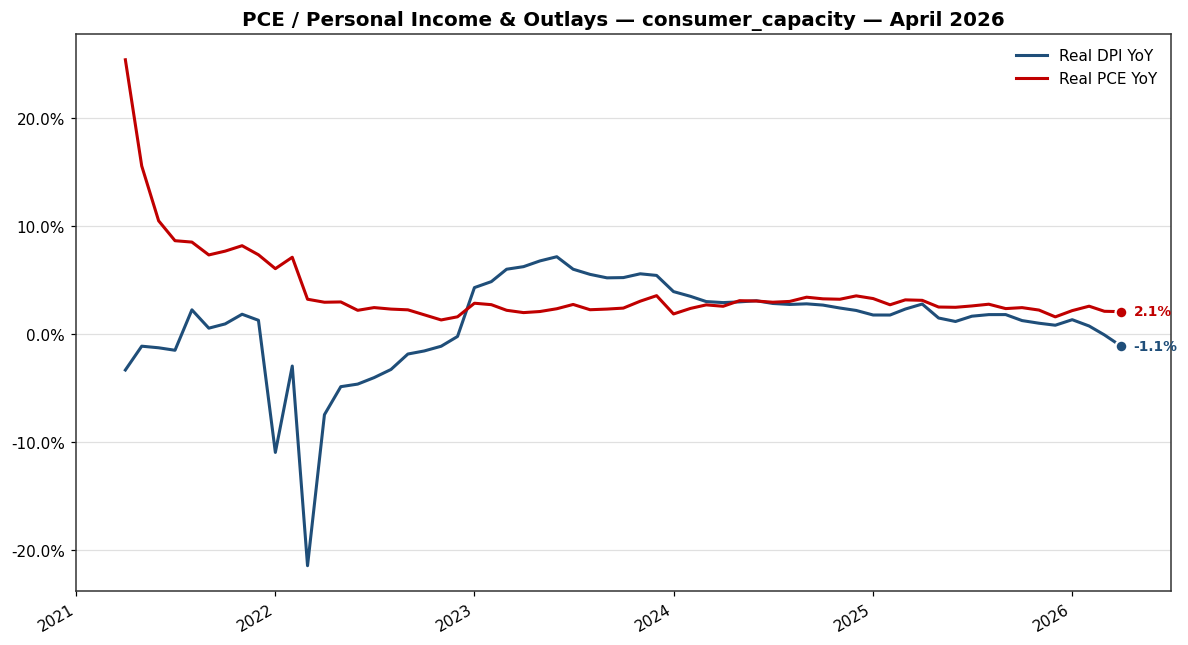
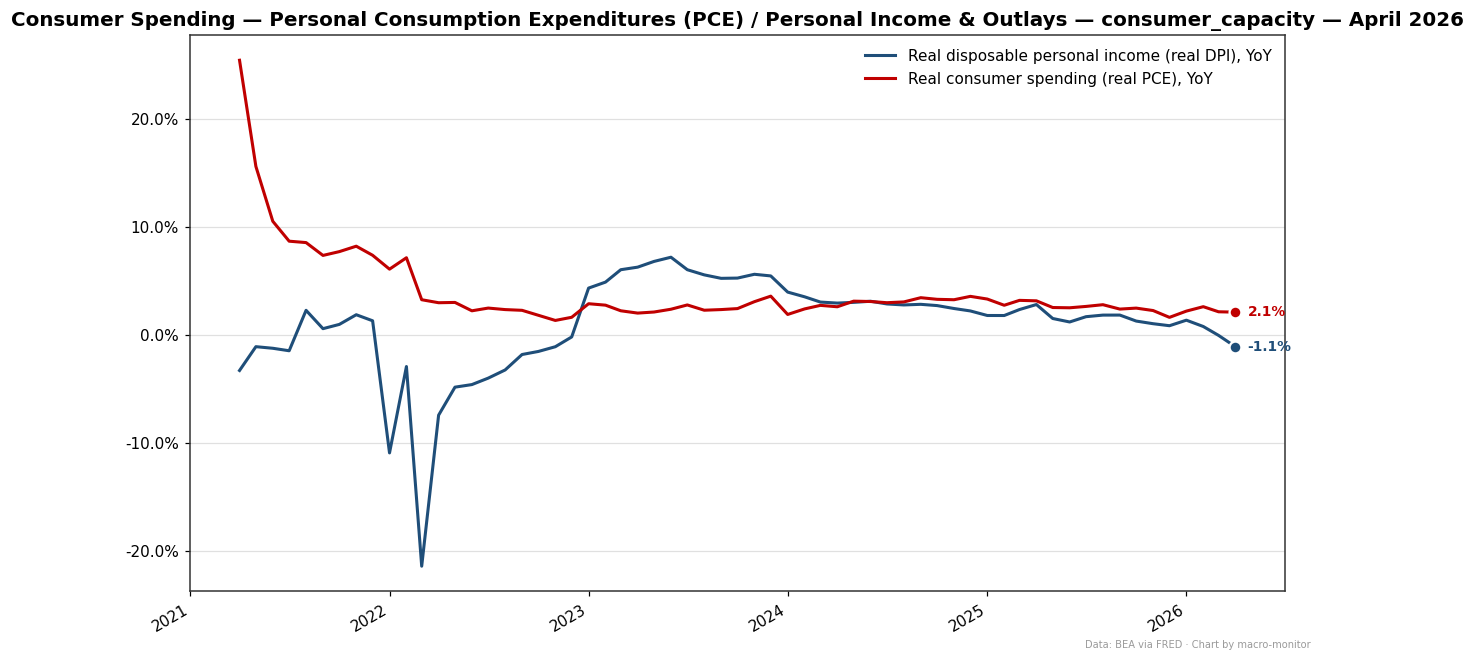
Populate consumer-spending card on the US current-state dashboard
The PCE family's display name was changed to lead with "Consumer Spending"
(commits 0772098/31d0ba2), but its outputs/latest artifact was still under the
OLD slug (pce___personal_income_and_outlays). The dashboard computes the card
slug from the *current* display name, so it found no match and rendered a
"no data yet" card — consumer spending, JP's top macro metric, was missing.

Regenerated the family artifact under the new slug via `post-release --family
pce` (dry-run, no Slack post): writes outputs/latest + the history charts
(main consumer-spending 5y, 25y long-history, consumer-capacity) and refreshes
the dashboard. Card now shows real + nominal PCE YoY (real +2.10%, Apr 2026,
not stale) with the consumer-spending history chart. Removed the orphaned
old-slug artifact.

diff --git a/outputs/dashboard/index.html b/outputs/dashboard/index.html
@@ -67,7 +67,7 @@
 <body>
 
 <h1>macro-monitor — US current state</h1>
-<p class="subtitle">Latest values per Tier A family. Generated Sat Jun 13 2026 09:39 ET.<br>
+<p class="subtitle">Latest values per Tier A family. Generated Sat Jun 13 2026 17:05 ET.<br>
 Each figure is tagged with its basis — <b>y/y</b> (year-over-year) · <b>m/m</b> (month-over-month) ·
 <b>m/m ann.</b> (annualized monthly) · <b>q/q ann.</b> (annualized quarterly) ·
 <b>m/m chg</b> (level change, e.g. payrolls in thousands) · <b>level</b> (the raw level).</p>
@@ -79,7 +79,7 @@ Each figure is tagged with its basis — <b>y/y</b> (year-over-year) · <b>m/m</
   </div>
   <div class="stat">
     <div class="label">Families with data</div>
-    <div class="value">17</div>
+    <div class="value">18</div>
   </div>
   <div class="stat">
     <div class="label">Stale (FRED behind expected)</div>
@@ -91,7 +91,7 @@ Each figure is tagged with its basis — <b>y/y</b> (year-over-year) · <b>m/m</
 
 <div class="grid">
 <div class='card' id='fam-cpi'><h2>CPI</h2><div class='period'>April 2026</div><div class='headline'><span class='headline-label'>Headline</span><span class='headline-value'>+7.96%<span class='basis'>m/m ann.</span><span class='also'>+3.78% y/y · +0.64% m/m</span></span></div><div class='headline'><span class='headline-label'>Core</span><span class='headline-value'>+4.61%<span class='basis'>m/m ann.</span><span class='also'>+2.74% y/y · +0.38% m/m</span></span></div><div class='headline'><span class='headline-label'>↳ Medical care services</span><span class='headline-value'>+3.21%<span class='basis'>y/y</span></span></div><div class='headline'><span class='headline-label'>↳ Medical care commodities (drugs/equipment)</span><span class='headline-value'>-0.52%<span class='basis'>y/y</span></span></div><div class='headline'><span class='headline-label'>↳ Hospital &amp; related services</span><span class='headline-value'>+5.55%<span class='basis'>y/y</span></span></div><div class='headline'><span class='headline-label'>↳ Professional services (physicians/dental)</span><span class='headline-value'>+3.97%<span class='basis'>y/y</span></span></div><img class='chart-thumb' src='../charts/cpi_5y_2026-04.png' alt='main chart'><div class='links'><a href='../archive/cpi/2026-04.html'>Release report</a> <a href='https://www.bls.gov/news.release/pdf/cpi.pdf' target='_blank'>Official PDF ↗</a></div></div>
-<div class='card nodata' id='fam-consumer_spending_—_personal_consumption_expenditures_(pce)___personal_income_and_outlays'><h2>Consumer Spending — Personal Consumption Expenditures (PCE) / Personal Income &amp; Outlays</h2><div class='period'>no data yet — first release post will populate</div></div>
+<div class='card' id='fam-consumer_spending_—_personal_consumption_expenditures_(pce)___personal_income_and_outlays'><h2>Consumer Spending — Personal Consumption Expenditures (PCE) / Personal Income &amp; Outlays</h2><div class='period'>April 2026</div><div class='headline'><span class='headline-label'>Real consumer spending — Real Personal Consumption Expenditures (real PCE)</span><span class='headline-value'>+2.10%<span class='basis'>y/y</span><span class='also'>+0.11% m/m</span></span></div><div class='headline'><span class='headline-label'>Nominal consumer spending — Personal Consumption Expenditures (nominal PCE)</span><span class='headline-value'>+5.94%<span class='basis'>y/y</span><span class='also'>+0.51% m/m</span></span></div><div class='headline'><span class='headline-label'>Headline PCE price index — Personal Consumption Expenditures inflation (PCEPI)</span><span class='headline-value'>+4.90%<span class='basis'>m/m ann.</span><span class='also'>+3.77% y/y · +0.40% m/m</span></span></div><div class='headline'><span class='headline-label'>Core PCE price index — ex food &amp; energy (PCEPILFE)</span><span class='headline-value'>+2.91%<span class='basis'>m/m ann.</span><span class='also'>+3.29% y/y · +0.24% m/m</span></span></div><img class='chart-thumb' src='../charts/pce_consumer_spending_2026-04.png' alt='main chart'><div class='links'><a href='../archive/consumer_spending_—_personal_consumption_expenditures_(pce)___personal_income_and_outlays/2026-04.html'>Release report</a></div></div>
 <div class='card' id='fam-employment_cost_index'><h2>Employment Cost Index</h2><div class='period'>Q1 2026</div><div class='headline'><span class='headline-label'>Total compensation (All Civilian)</span><span class='headline-value'>+3.43%<span class='basis'>y/y</span><span class='also'>+3.66% q/q ann.</span></span></div><img class='chart-thumb' src='../charts/eci_10y_2026-Q1.png' alt='main chart'><div class='links'><a href='../archive/employment_cost_index/2026-Q1.html'>Release report</a> <a href='https://www.bls.gov/news.release/pdf/eci.pdf' target='_blank'>Official PDF ↗</a></div></div>
 <div class='card' id='fam-employment_situation'><h2>Employment Situation</h2><div class='period'>May 2026</div><div class='headline'><span class='headline-label'>Nonfarm payrolls</span><span class='headline-value'>+172.0<span class='basis'>m/m chg</span><span class='also'>+0.32% y/y</span></span></div><div class='headline'><span class='headline-label'>Unemployment rate</span><span class='headline-value'>4.30<span class='basis'>level</span></span></div><div class='headline'><span class='headline-label'>↳ Ambulatory health care services</span><span class='headline-value'>+2.90%<span class='basis'>y/y</span></span></div><div class='headline'><span class='headline-label'>↳ Hospitals</span><span class='headline-value'>+2.14%<span class='basis'>y/y</span></span></div><div class='headline'><span class='headline-label'>↳ Nursing &amp; residential care</span><span class='headline-value'>+2.27%<span class='basis'>y/y</span></span></div><img class='chart-thumb' src='../charts/payrolls_5y_2026-05.png' alt='main chart'><div class='links'><a href='../archive/employment_situation/2026-05.html'>Release report</a> <a href='https://www.bls.gov/news.release/pdf/empsit.pdf' target='_blank'>Official PDF ↗</a></div></div>
 <div class='card' id='fam-gdp'><h2>GDP</h2><div class='period'>Q1 2026</div><div class='headline'><span class='headline-label'>Real GDP</span><span class='headline-value'>1.60<span class='basis'>level</span></span></div><div class='headline'><span class='headline-label'>↳ PCE Health Services</span><span class='headline-value'>+6.90%<span class='basis'>y/y</span></span></div><img class='chart-thumb' src='../charts/gdp_5y_2026-Q1.png' alt='main chart'><div class='links'><a href='../archive/gdp/2026-Q1.html'>Release report</a></div></div>

diff --git a/outputs/archive/consumer_spending_—_personal_consumption_expenditures_(pce)___personal_income_and_outlays/2026-04.html b/outputs/archive/consumer_spending_—_personal_consumption_expenditures_(pce)___personal_income_and_outlays/2026-04.html
@@ -1,0 +1,68 @@
+<!DOCTYPE html>
+<html lang="en">
+<head>
+<meta charset="UTF-8">
+<title>Consumer Spending — Personal Consumption Expenditures (PCE) / Personal Income &amp; Outlays — April 2026</title>
+<style>
+  body { font-family: -apple-system, BlinkMacSystemFont, "Segoe UI", Helvetica, Arial, sans-serif;
+          max-width: 900px; margin: 2em auto; padding: 0 1em; color: #222; }
+  h1 { font-size: 1.8em; margin-bottom: 0.2em; }
+  h2 { font-size: 1.2em; margin-top: 1.6em; border-bottom: 1px solid #ddd; padding-bottom: 0.2em; }
+  .period-label { color: #555; font-weight: normal; }
+  .freshness { background: #f6f8fa; border-left: 3px solid #1F4E79;
+                padding: 0.5em 1em; margin: 1em 0; font-size: 0.9em; color: #444; }
+  .stale { border-left-color: #C00000; }
+  table { width: 100%; border-collapse: collapse; margin: 0.6em 0; }
+  th, td { text-align: left; padding: 0.4em 0.6em; border-bottom: 1px solid #eee; }
+  th { background: #fafafa; }
+  td.num { text-align: right; font-variant-numeric: tabular-nums; }
+  .chart { margin: 1em 0; }
+  .chart img { max-width: 100%; height: auto; border: 1px solid #ddd; border-radius: 4px; }
+  .agency-link { display: inline-block; margin-top: 0.6em; padding: 0.4em 0.8em;
+                  background: #1F4E79; color: white; text-decoration: none; border-radius: 4px; }
+  .agency-link:hover { background: #163955; }
+  .footer { font-size: 0.8em; color: #666; margin-top: 2em; padding-top: 1em; border-top: 1px solid #eee; }
+  .tag { display: inline-block; background: #E8F0E0; color: #2D5016; font-size: 0.7em;
+          padding: 0.1em 0.4em; border-radius: 3px; margin-left: 0.4em; }
+</style>
+</head>
+<body>
+
+<h1>Consumer Spending — Personal Consumption Expenditures (PCE) / Personal Income &amp; Outlays <span class="period-label">— April 2026</span></h1>
+
+<div class="freshness">
+  <strong>Source:</strong> fred ·
+  <strong>Fetched:</strong> 2026-06-13T21:05:48.423171+00:00 ·
+  <strong>Latest observation:</strong> 2026-04 ·
+  <strong>Expected:</strong> 2026-04 ·
+  <strong>Stale:</strong> no
+</div>
+
+<h2>Headline</h2>
+<table><thead><tr><th>Series</th><th>Primary</th><th>Also</th><th>Prior</th></tr></thead><tbody><tr><td><strong>Real consumer spending — Real Personal Consumption Expenditures (real PCE)</strong> <small style='color:#888'>(PCEC96)</small></td><td class='num'>2.10%</td><td>mom_pct 0.11%</td><td class='num'>2.13%</td></tr>
+<tr><td><strong>Nominal consumer spending — Personal Consumption Expenditures (nominal PCE)</strong> <small style='color:#888'>(PCE)</small></td><td class='num'>5.94%</td><td>mom_pct 0.51%</td><td class='num'>5.73%</td></tr>
+<tr><td><strong>Headline PCE price index — Personal Consumption Expenditures inflation (PCEPI)</strong> <small style='color:#888'>(PCEPI)</small></td><td class='num'>4.90%</td><td>yoy_pct 3.77% · mom_pct 0.40%</td><td class='num'>8.28%</td></tr>
+<tr><td><strong>Core PCE price index — ex food &amp; energy (PCEPILFE)</strong> <small style='color:#888'>(PCEPILFE)</small></td><td class='num'>2.91%</td><td>yoy_pct 3.29% · mom_pct 0.24%</td><td class='num'>3.60%</td></tr></tbody></table>
+
+<h2>Context</h2><p><strong>Anchor:</strong> PCEPI (annualized_mom) · <strong>delta z-score vs 5y:</strong> -1.18σ</p><table><thead><tr><th>Trend</th><th>Stat</th><th>Value</th></tr></thead><tbody><tr><td>3mo annualized</td><td>annualized_mom</td><td class='num'>6.02%</td></tr>
+<tr><td>6mo annualized</td><td>annualized_mom</td><td class='num'>4.80%</td></tr></tbody></table>
+
+<h2>Components (thread)</h2><table><thead><tr><th>Series</th><th>Transform</th><th>Value</th></tr></thead><tbody><tr><td>Personal income (PI) <small style='color:#888'>(PI)</small> </td><td>yoy_pct</td><td class='num'>2.54%</td></tr>
+<tr><td>Personal saving rate (PSAVERT) <small style='color:#888'>(PSAVERT)</small> </td><td>raw</td><td class='num'>2.60</td></tr>
+<tr><td>Real disposable personal income (real DPI) <small style='color:#888'>(DSPIC96)</small> </td><td>yoy_pct</td><td class='num'>-1.10%</td></tr></tbody></table>
+
+<h2>Charts</h2>
+<div class='chart'><h3 style='font-size:1em;color:#555'>main</h3><img src='../../charts/pce_consumer_spending_2026-04.png' alt='main'></div>
+<div class='chart'><h3 style='font-size:1em;color:#555'>inflation</h3><img src='../../charts/pce_inflation_2026-04.png' alt='inflation'></div>
+<div class='chart'><h3 style='font-size:1em;color:#555'>long_history</h3><img src='../../charts/pce_25y_2026-04.png' alt='long_history'></div>
+<div class='chart'><h3 style='font-size:1em;color:#555'>consumer_capacity</h3><img src='../../charts/consumer_capacity_2026-04.png' alt='consumer_capacity'></div>
+
+
+
+<div class="footer">
+  Generated by <a href="https://github.com/jroypeterson/macro-monitor">macro-monitor</a>
+  · schema 1.0 · period 2026-04
+</div>
+
+</body>
+</html>

diff --git a/outputs/latest/consumer_spending_—_personal_consumption_expenditures_(pce)___personal_income_and_outlays.html b/outputs/latest/consumer_spending_—_personal_consumption_expenditures_(pce)___personal_income_and_outlays.html
@@ -2,7 +2,7 @@
 <html lang="en">
 <head>
 <meta charset="UTF-8">
-<title>PCE / Personal Income &amp; Outlays — April 2026</title>
+<title>Consumer Spending — Personal Consumption Expenditures (PCE) / Personal Income &amp; Outlays — April 2026</title>
 <style>
   body { font-family: -apple-system, BlinkMacSystemFont, "Segoe UI", Helvetica, Arial, sans-serif;
           max-width: 900px; margin: 2em auto; padding: 0 1em; color: #222; }
@@ -28,30 +28,32 @@
 </head>
 <body>
 
-<h1>PCE / Personal Income &amp; Outlays <span class="period-label">— April 2026</span></h1>
+<h1>Consumer Spending — Personal Consumption Expenditures (PCE) / Personal Income &amp; Outlays <span class="period-label">— April 2026</span></h1>
 
 <div class="freshness">
   <strong>Source:</strong> fred ·
-  <strong>Fetched:</strong> 2026-06-09T18:30:37.048507+00:00 ·
+  <strong>Fetched:</strong> 2026-06-13T21:05:48.423171+00:00 ·
   <strong>Latest observation:</strong> 2026-04 ·
   <strong>Expected:</strong> 2026-04 ·
   <strong>Stale:</strong> no
 </div>
 
 <h2>Headline</h2>
-<table><thead><tr><th>Series</th><th>Primary</th><th>Also</th><th>Prior</th></tr></thead><tbody><tr><td><strong>Headline PCE</strong> <small style='color:#888'>(PCEPI)</small></td><td class='num'>4.90%</td><td>yoy_pct 3.77% · mom_pct 0.40%</td><td class='num'>8.28%</td></tr>
-<tr><td><strong>Core PCE</strong> <small style='color:#888'>(PCEPILFE)</small></td><td class='num'>2.91%</td><td>yoy_pct 3.29% · mom_pct 0.24%</td><td class='num'>3.60%</td></tr></tbody></table>
+<table><thead><tr><th>Series</th><th>Primary</th><th>Also</th><th>Prior</th></tr></thead><tbody><tr><td><strong>Real consumer spending — Real Personal Consumption Expenditures (real PCE)</strong> <small style='color:#888'>(PCEC96)</small></td><td class='num'>2.10%</td><td>mom_pct 0.11%</td><td class='num'>2.13%</td></tr>
+<tr><td><strong>Nominal consumer spending — Personal Consumption Expenditures (nominal PCE)</strong> <small style='color:#888'>(PCE)</small></td><td class='num'>5.94%</td><td>mom_pct 0.51%</td><td class='num'>5.73%</td></tr>
+<tr><td><strong>Headline PCE price index — Personal Consumption Expenditures inflation (PCEPI)</strong> <small style='color:#888'>(PCEPI)</small></td><td class='num'>4.90%</td><td>yoy_pct 3.77% · mom_pct 0.40%</td><td class='num'>8.28%</td></tr>
+<tr><td><strong>Core PCE price index — ex food &amp; energy (PCEPILFE)</strong> <small style='color:#888'>(PCEPILFE)</small></td><td class='num'>2.91%</td><td>yoy_pct 3.29% · mom_pct 0.24%</td><td class='num'>3.60%</td></tr></tbody></table>
 
 <h2>Context</h2><p><strong>Anchor:</strong> PCEPI (annualized_mom) · <strong>delta z-score vs 5y:</strong> -1.18σ</p><table><thead><tr><th>Trend</th><th>Stat</th><th>Value</th></tr></thead><tbody><tr><td>3mo annualized</td><td>annualized_mom</td><td class='num'>6.02%</td></tr>
 <tr><td>6mo annualized</td><td>annualized_mom</td><td class='num'>4.80%</td></tr></tbody></table>
 
-<h2>Components (thread)</h2><table><thead><tr><th>Series</th><th>Transform</th><th>Value</th></tr></thead><tbody><tr><td>Personal income <small style='color:#888'>(PI)</small> </td><td>yoy_pct</td><td class='num'>2.54%</td></tr>
-<tr><td>Real PCE <small style='color:#888'>(PCEC96)</small> </td><td>yoy_pct</td><td class='num'>2.10%</td></tr>
-<tr><td>Personal saving rate <small style='color:#888'>(PSAVERT)</small> </td><td>raw</td><td class='num'>2.60</td></tr>
-<tr><td>Real disposable personal income <small style='color:#888'>(DSPIC96)</small> </td><td>yoy_pct</td><td class='num'>-1.10%</td></tr></tbody></table>
+<h2>Components (thread)</h2><table><thead><tr><th>Series</th><th>Transform</th><th>Value</th></tr></thead><tbody><tr><td>Personal income (PI) <small style='color:#888'>(PI)</small> </td><td>yoy_pct</td><td class='num'>2.54%</td></tr>
+<tr><td>Personal saving rate (PSAVERT) <small style='color:#888'>(PSAVERT)</small> </td><td>raw</td><td class='num'>2.60</td></tr>
+<tr><td>Real disposable personal income (real DPI) <small style='color:#888'>(DSPIC96)</small> </td><td>yoy_pct</td><td class='num'>-1.10%</td></tr></tbody></table>
 
 <h2>Charts</h2>
-<div class='chart'><h3 style='font-size:1em;color:#555'>main</h3><img src='../../charts/pce_5y_2026-04.png' alt='main'></div>
+<div class='chart'><h3 style='font-size:1em;color:#555'>main</h3><img src='../../charts/pce_consumer_spending_2026-04.png' alt='main'></div>
+<div class='chart'><h3 style='font-size:1em;color:#555'>inflation</h3><img src='../../charts/pce_inflation_2026-04.png' alt='inflation'></div>
 <div class='chart'><h3 style='font-size:1em;color:#555'>long_history</h3><img src='../../charts/pce_25y_2026-04.png' alt='long_history'></div>
 <div class='chart'><h3 style='font-size:1em;color:#555'>consumer_capacity</h3><img src='../../charts/consumer_capacity_2026-04.png' alt='consumer_capacity'></div>
 
